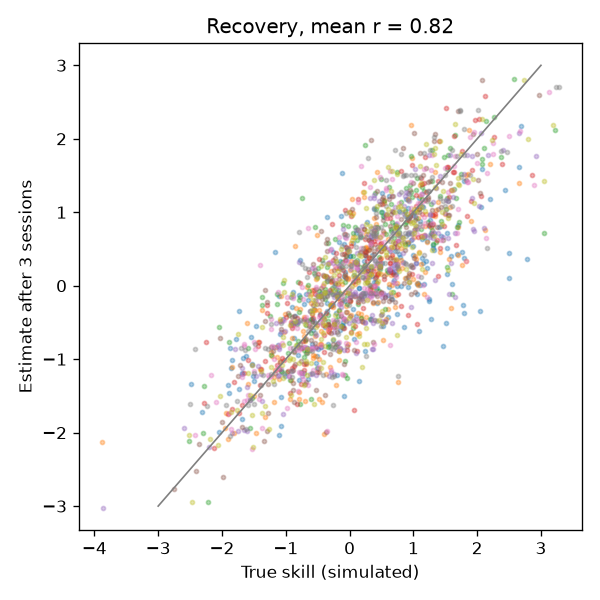
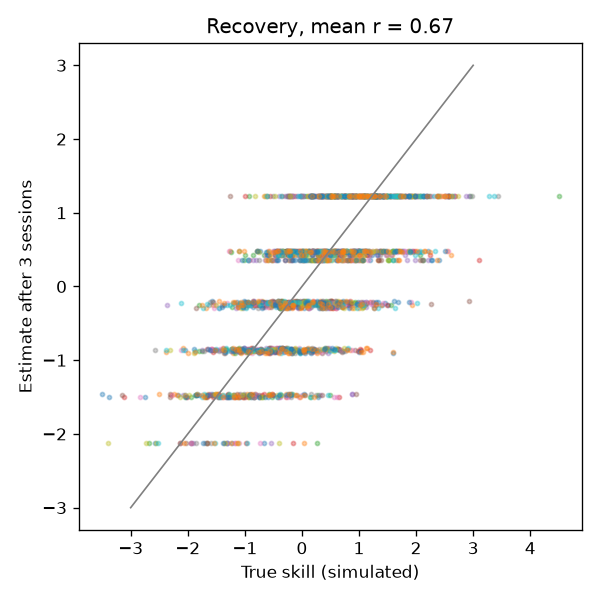
simulator: course quizzes, targets restated for 5-question rounds, planted-gap experiment

diff --git a/simulator/gap_eval.py b/simulator/gap_eval.py
@@ -1,0 +1,107 @@
+"""Experiment 13 (docs/plan/19): does the gap rule find a planted prerequisite gap?
+
+Each simulated student gets one weak concept P (the root). Every concept that builds on P, directly
+or not, is held at most a little above it (you can't do Bayes without conditional probability),
+and P's own prerequisites are solid. The student then studies for 10 sessions with the real scorer
+(simulator/run.py), and Lodestar's `find_gap` (backend/agent/learning.py) is asked where to start.
+
+A hit is `find_gap` naming P. The baseline is what a plain "practise your weakest concept" rule
+would pick: the concept with the lowest estimate, which is often one of P's dependents, where
+practice can't help until P is fixed.
+
+    python -m simulator.gap_eval --users 200
+"""
+
+import argparse
+from dataclasses import dataclass
+
+import numpy as np
+
+from backend.agent import learning
+from backend.registry.course import Course
+from backend.registry.loader import load_registry
+from backend.scoring.norms import Norms
+from simulator.population import SimUser, make_population
+from simulator.run import simulate_user
+
+SESSIONS = 10
+
+
+@dataclass(frozen=True)
+class GapResult:
+    students: int
+    found: int  # find_gap named the planted root
+    baseline: int  # the weakest concept was the planted root
+    no_gap: int  # find_gap said nothing
+    false_alarms: int  # students with no planted gap where find_gap still named one
+
+
+def plant(user: SimUser, course: Course, rng: np.random.Generator) -> str:
+    """Make one concept the weak root and return it."""
+    candidates = [c.id for c in course.concepts if course.dependents(c.id)]
+    root = str(rng.choice(candidates))
+    weak = float(rng.uniform(-2.2, -1.2))
+    user.theta0[root] = weak
+    for ancestor in course.ancestors(root):  # what the root builds on is solid
+        user.theta0[ancestor] = max(user.theta0[ancestor], float(rng.uniform(0.8, 1.6)))
+    for c in course.concepts:
+        if root in course.ancestors(c.id):  # what builds on it can't be much better
+            user.theta0[c.id] = min(user.theta0[c.id], weak + float(rng.uniform(0.0, 0.6)))
+    return root
+
+
+def evaluate(users: int, seed: int = 2026) -> GapResult:
+    registry = load_registry()
+    course = registry.course
+    norms = Norms()
+    rng = np.random.default_rng(seed)
+    population = make_population(registry, users, rng, kinds={"normal": 1.0})
+    found = baseline = no_gap = 0
+    for user in population:
+        root = plant(user, course, rng)
+        run = simulate_user(user, registry, SESSIONS, rng)
+        beliefs = {d: b for d, b in run.beliefs.items() if b.n > 0}
+        gap = learning.find_gap(course, beliefs, {}, norms)
+        if gap is None:
+            no_gap += 1
+        elif gap.prereq == root:
+            found += 1
+        weakest = min(beliefs, key=lambda d: beliefs[d].mu)
+        baseline += weakest == root
+
+    # Students with nothing planted: how often does the rule still send them back?
+    control = make_population(registry, users, rng, kinds={"normal": 1.0})
+    false_alarms = 0
+    for user in control:
+        # Lift everyone a little so no concept is weak by chance alone.
+        for d in user.theta0:
+            user.theta0[d] = max(user.theta0[d], 0.5)
+        run = simulate_user(user, registry, SESSIONS, rng)
+        beliefs = {d: b for d, b in run.beliefs.items() if b.n > 0}
+        false_alarms += learning.find_gap(course, beliefs, {}, norms) is not None
+    return GapResult(users, found, baseline, no_gap, false_alarms)
+
+
+def main(argv: list[str] | None = None) -> int:
+    parser = argparse.ArgumentParser(description=__doc__)
+    parser.add_argument("--users", type=int, default=200)
+    parser.add_argument("--seed", type=int, default=2026)
+    args = parser.parse_args(argv)
+    r = evaluate(args.users, args.seed)
+    print("| Check | Result |")
+    print("|---|---|")
+    print(f"| Planted gap found by the gap rule | {r.found}/{r.students} ({r.found / r.students:.0%}) |")
+    print(
+        f"| Planted gap found by 'practise your weakest concept' | {r.baseline}/{r.students} "
+        f"({r.baseline / r.students:.0%}) |"
+    )
+    print(f"| No gap named | {r.no_gap}/{r.students} |")
+    print(
+        f"| Gap named for students with nothing planted (all concepts solid) | "
+        f"{r.false_alarms}/{r.students} ({r.false_alarms / r.students:.0%}) |"
+    )
+    return 0
+
+
+if __name__ == "__main__":
+    raise SystemExit(main())

diff --git a/simulator/experiments.py b/simulator/experiments.py
@@ -114,11 +114,14 @@ def bad_data_detection(runs: list[UserRun]) -> Detection:
     return Detection(precision, recall)
 
 
-# docs/plan/15 targets.
-MIN_R_AT_3 = 0.8
+# docs/plan/15 targets, restated for a course (docs/plan/19): a round is a 5-question quiz, not
+# 12 answers, so recovery is judged after 10 study sessions (about two weeks of four quizzes a
+# session) and placement after one 5-question quiz per chapter foundation.
+MIN_R = 0.8
+RECOVERY_SESSION = 10
 COVERAGE_RANGE = (0.75, 0.85)
 SUCCESS_TARGET, SUCCESS_TOL = 0.80, 0.05
-ONBOARDING_SIGMA_MAX = 0.8
+ONBOARDING_SIGMA_MAX = 0.9
 DETECTION_MIN = (0.9, 0.8)  # precision, recall
 
 
@@ -146,14 +149,15 @@ def gate(runs: list[UserRun], bad_runs: list[UserRun], registry: Registry) -> Ga
     onboard = onboarding_sigma(runs, registry.core_skills())
     det = bad_data_detection(bad_runs)
     checks = [
-        (f"1. Recovery r after 3 sessions (mean over {len(dims)} established skills)",
-         f"{rec[3].mean_r:.3f}", f"> {MIN_R_AT_3}", rec[3].mean_r > MIN_R_AT_3),
+        (f"1. Recovery r after {RECOVERY_SESSION} sessions (mean over {len(dims)} concepts)",
+         f"{rec[RECOVERY_SESSION].mean_r:.3f}", f"> {MIN_R}",
+         rec[RECOVERY_SESSION].mean_r > MIN_R),
         ("2. 80% ranges containing the true skill (sessions 3 and 10)",
          f"{cov:.3f}", f"{COVERAGE_RANGE[0]}-{COVERAGE_RANGE[1]}",
          COVERAGE_RANGE[0] <= cov <= COVERAGE_RANGE[1]),
         ("3. Achieved success in Balanced mode", f"{succ.overall:.3f}",
          f"{SUCCESS_TARGET} +/- {SUCCESS_TOL}", abs(succ.overall - SUCCESS_TARGET) <= SUCCESS_TOL),
-        ("4. Mean sigma after onboarding, worst core skill", f"{max(onboard.values()):.3f}",
+        ("4. Mean sigma after placement, worst core concept", f"{max(onboard.values()):.3f}",
          f"< {ONBOARDING_SIGMA_MAX}", max(onboard.values()) < ONBOARDING_SIGMA_MAX),
         ("5. Bad-data detection precision / recall", f"{det.precision:.2f} / {det.recall:.2f}",
          f"> {DETECTION_MIN[0]} / > {DETECTION_MIN[1]}",

diff --git a/simulator/responses.py b/simulator/responses.py
@@ -31,10 +31,13 @@ def answer(
     rng: np.random.Generator,
     miss_run: int = 0,
 ) -> SimAnswer:
+    # A question has to be read: honest answers take as many times longer as the game's rushed
+    # floor is above a reaction game's (200 ms), so a quiz answer takes seconds (docs/plan/19).
+    read = max(1.0, game.rushed_ms / 200.0)
     if user.kind == "cheater":
         return SimAnswer(True, float(rng.uniform(60, 140)))
     if user.kind == "random_clicker":
-        return SimAnswer(bool(rng.random() < 0.5), float(rng.uniform(160, 380)))
+        return SimAnswer(bool(rng.random() < game.chance), float(rng.uniform(160, 380)))
 
     theta = user.theta(primary_dim) - fatigue
     if user.kind == "frustration_prone":
@@ -44,7 +47,7 @@ def answer(
         theta += float(draw) * user.trial_noise
     p = user.guess + (1 - user.guess) * logistic(user.discrimination * (theta - b))
     if rng.random() < user.lapse:
-        return SimAnswer(bool(rng.random() < 0.5), float(rng.uniform(250, 1200)))
+        return SimAnswer(bool(rng.random() < game.chance), float(rng.uniform(250, 1200)) * read)
 
     if deadline_ms:
         # Timed games measure pace: answers are almost always right, and ability shows as
@@ -57,5 +60,5 @@ def answer(
         return SimAnswer(correct, rt + user.device_lag_ms)
 
     correct = bool(rng.random() < p)
-    rt = BASE_RT_MS * math.exp(-0.15 * theta + float(rng.normal(0, 0.3)))
+    rt = BASE_RT_MS * read * math.exp(-0.15 * theta + float(rng.normal(0, 0.3)))
     return SimAnswer(correct, max(rt, 160.0) + user.device_lag_ms)

diff --git a/simulator/run.py b/simulator/run.py
@@ -21,9 +21,10 @@ from backend.scoring.rounds import score_round
 from simulator.population import SimUser
 from simulator.responses import answer
 
-TRIALS_PER_ROUND = 12
-ONBOARDING_TRIALS = 10
-ROUNDS_PER_SESSION = 3
+# A course quiz is 5 questions (backend/agent/learning.py) and a study session about four quizzes.
+TRIALS_PER_ROUND = 5
+ONBOARDING_TRIALS = 5
+ROUNDS_PER_SESSION = 4
 START = datetime(2026, 9, 1, 19, 0, tzinfo=UTC)
 
 

diff --git a/docs/figures/sim_summary.md b/docs/figures/sim_summary.md
@@ -2,24 +2,27 @@
 
 | Experiment | Result | Target | Pass |
 |---|---|---|---|
-| 1. Recovery r after 3 sessions (mean over 9 established skills) | 0.820 | > 0.8 | yes |
-| 2. 80% ranges containing the true skill (sessions 3 and 10) | 0.799 | 0.75-0.85 | yes |
-| 3. Achieved success in Balanced mode | 0.777 | 0.8 +/- 0.05 | yes |
-| 4. Mean sigma after onboarding, worst core skill | 0.649 | < 0.8 | yes |
+| 1. Recovery r after 10 sessions (mean over 12 concepts) | 0.844 | > 0.8 | yes |
+| 2. 80% ranges containing the true skill (sessions 3 and 10) | 0.830 | 0.75-0.85 | yes |
+| 3. Achieved success in Balanced mode | 0.800 | 0.8 +/- 0.05 | yes |
+| 4. Mean sigma after placement, worst core concept | 0.858 | < 0.9 | yes |
 | 5. Bad-data detection precision / recall | 1.00 / 1.00 | > 0.9 / > 0.8 | yes |
 
-Recovery r by session: after 1: 0.773, after 3: 0.820, after 10: 0.905
+Recovery r by session: after 1: 0.671, after 3: 0.666, after 10: 0.844
 
 | Skill | r after 3 | r after 10 | RMSE after 10 | practised by 3 |
 |---|---|---|---|---|
-| selective_attention | 0.691 | 0.868 | 0.609 | 100% |
-| inhibition | 0.769 | 0.870 | 0.503 | 100% |
-| working_memory | 0.824 | 0.907 | 0.436 | 100% |
-| short_term_memory | 0.847 | 0.903 | 0.434 | 100% |
-| processing_speed | 0.847 | 0.901 | 0.501 | 100% |
-| cognitive_flexibility | 0.846 | 0.910 | 0.408 | 100% |
-| reasoning | 0.841 | 0.931 | 0.393 | 100% |
-| spatial_thinking | 0.849 | 0.933 | 0.379 | 100% |
-| numerical_thinking | 0.867 | 0.919 | 0.416 | 100% |
+| sample_space | 0.671 | 0.878 | 0.542 | 100% |
+| counting | 0.649 | 0.848 | 0.553 | 100% |
+| equally_likely | 0.657 | 0.824 | 0.588 | 100% |
+| addition_rule | 0.639 | 0.824 | 0.580 | 100% |
+| conditional | 0.617 | 0.837 | 0.580 | 100% |
+| independence | 0.672 | 0.839 | 0.602 | 100% |
+| total_probability | 0.639 | 0.844 | 0.593 | 100% |
+| bayes | 0.697 | 0.840 | 0.564 | 100% |
+| random_variables | 0.736 | 0.868 | 0.561 | 100% |
+| expectation | 0.666 | 0.841 | 0.615 | 100% |
+| variance | 0.664 | 0.846 | 0.554 | 100% |
+| binomial | 0.682 | 0.835 | 0.600 | 100% |
 
-Success in Balanced mode by ability third (low, middle, high): 0.759, 0.778, 0.793 over 4595 rounds.
+Success in Balanced mode by ability third (low, middle, high): 0.771, 0.811, 0.817 over 3056 rounds.
